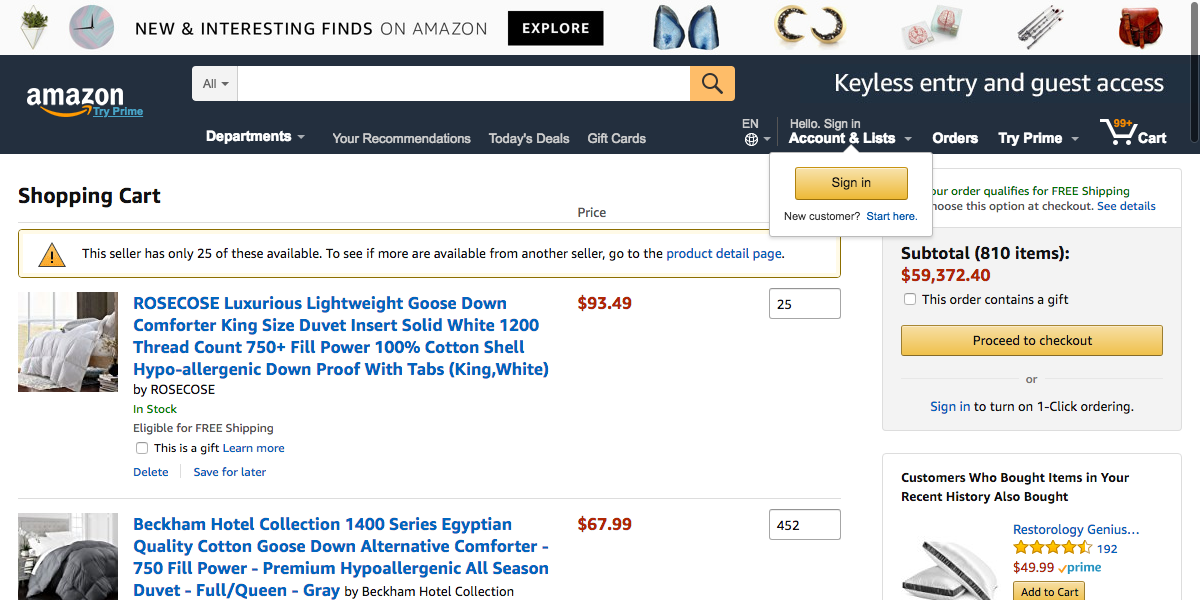
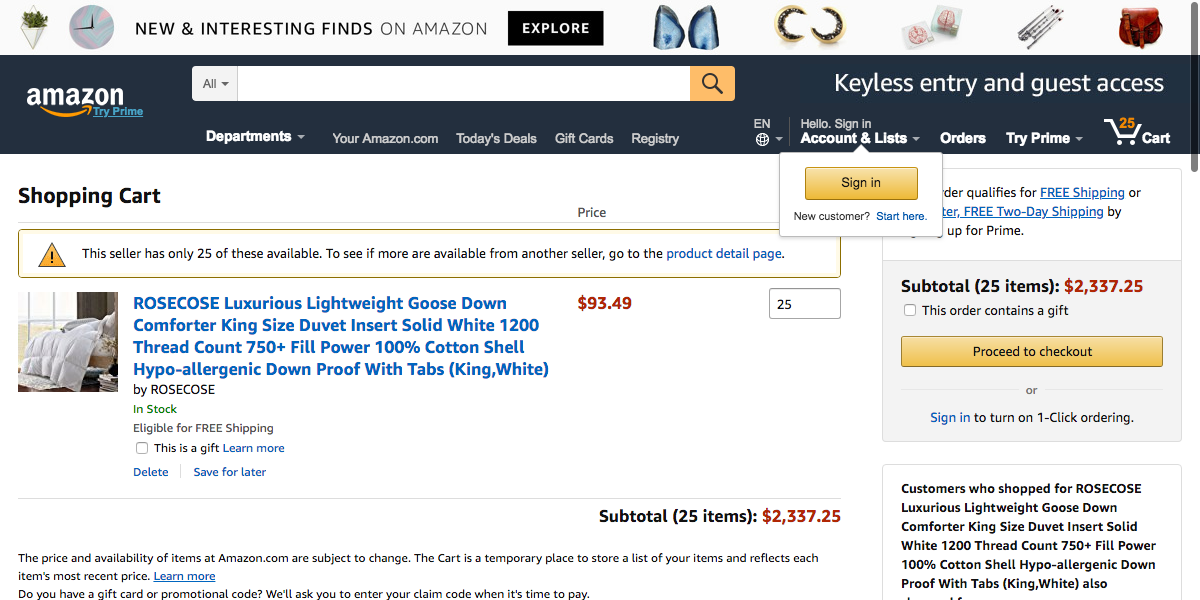
changed the way to select and enter 999 using xpath

diff --git a/getStockNumber.py b/getStockNumber.py
@@ -34,7 +34,7 @@ from amazonCrawlers import getAnsweredQuestionCount
 
 #Headless Chrome
 options = webdriver.ChromeOptions()
-options.add_argument('headless')
+#options.add_argument('headless')
 options.add_argument('window-size=1200x600')
 browser = webdriver.Chrome(chrome_options=options)
 #Headless Firefox
@@ -70,23 +70,23 @@ def getStockNumber(newReleaseURL,products):
             #print(product)
         # TODO: get detail info
         # Get stock number
-        for index,product in enumerate(products):
+        # Automatic from 1-10
+        #for index,product in enumerate(products):
+        # Manual 
+        for index,product in zip(range(8,10),products):
+            product = products[index]
             print('index:',index)
-            for i in range(1,20):
-                # 产品页
-                browser.get(product['SKUURL']) 
-                html = browser.page_source
-                soup = BeautifulSoup(html, 'lxml')
-                #print('current url1:',browser.current_url)
-                #加10个产品 最后就可以不用点击输入数量了
-                # Add to cart 属于产品页
-                addToCard = wait.until(EC.presence_of_element_located((By.CSS_SELECTOR,'#add-to-cart-button')))
-                addToCard.click()#this will update brower's current url
-                # Use html = brower.page_source to update the page source
-                #print('current url2:',browser.current_url)
-                print("add:",i)
-                if i == 10:
-                    break
+            # 产品页
+            browser.get(product['SKUURL']) 
+            html = browser.page_source
+            soup = BeautifulSoup(html, 'lxml')
+            #print('current url1:',browser.current_url)
+            #加10个产品 最后就可以不用点击输入数量了
+            # Add to cart 属于产品页
+            addToCard = wait.until(EC.presence_of_element_located((By.CSS_SELECTOR,'#add-to-cart-button')))
+            addToCard.click()#this will update brower's current url
+            # Use html = brower.page_source to update the page source
+            #print('current url2:',browser.current_url)
             # Go to my Cart
             html = browser.page_source
             soup = BeautifulSoup(html, 'lxml')
@@ -102,9 +102,9 @@ def getStockNumber(newReleaseURL,products):
             # BUG-不知道如何点击数量的那个按钮|-----|
             #----------------------------|
             # Clear the input field in order to be able to send 999
+            quantity = browser.find_element_by_xpath('/html/body/div[1]/div[4]/div/div[4]/div/div[2]/div[4]/form/div[2]/div/div[4]/div/div[3]/div/div/span/select/option[10]').click()
             #browser.execute_script("arguments[0].value = arguments[1]",quantity,"0")
             #quantity = wait.until(EC.presence_of_element_located((By.CSS_SELECTOR,".a-input-text")))
-            #quantity.click()
             quantity = browser.find_element_by_css_selector(".a-input-text")
             quantity.clear()
             quantity.send_keys('999')
@@ -112,17 +112,21 @@ def getStockNumber(newReleaseURL,products):
             #BUG-不知如何得到js rendered html
             #browser.refresh()
             #html updated
-            #html = browser.page_source
+            html = browser.page_source
             #text = browser.execute_script("return document.documentElement.innerText")
             #print(text)
             #html = browser.execute_script("return document.documentElement.innerHTML")
-            #soup = BeautifulSoup(html,'lxml')
+            soup = BeautifulSoup(html,'lxml')
             # Get stock number from alert message if stock number is less than 999
-            #productDiv = soup.find('span',id='sc-subtotal-label-activecart')
-            #inStock = productDiv.get_text()
-            #print("how many:",inStock)
+            productDiv = soup.find('span',id='sc-subtotal-label-activecart')
+            inStock = productDiv.get_text()
+            print("how many:",inStock)
+            #enter 999后的反应时间
             time.sleep(3)
             browser.get_screenshot_as_file(str(index)+'.png') 
+            # 清除库存
+            emptyCart = browser.find_element_by_css_selector(".sc-action-delete > span:nth-child(1) > input:nth-child(1)")
+            emptyCart.click()
             if index == 10:
                 break
     except Exception as err:
